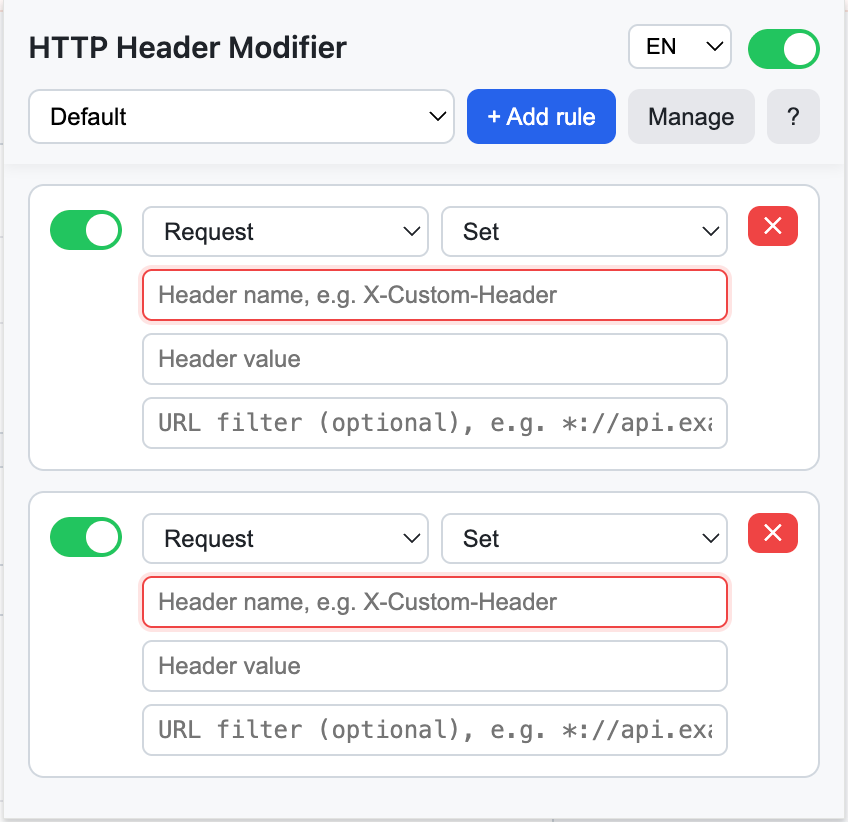
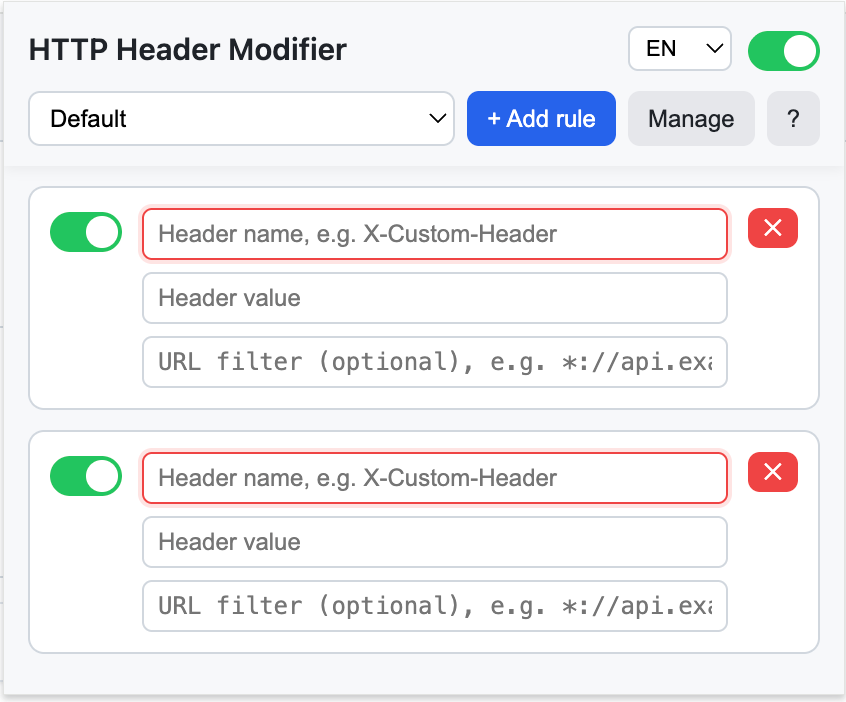
feat: update docs

diff --git a/README.md b/README.md
@@ -10,8 +10,6 @@ A browser extension for setting HTTP request headers, supporting **Chrome** and 
 
 ![Screenshot 2](public/example-2.png)
 
-![Screenshot 3](public/example-3.png)
-
 ## Features
 
 - Set HTTP **request headers** using key-value pairs (overwrite if present, add if absent)

diff --git a/docs/README_zh.md b/docs/README_zh.md
@@ -10,8 +10,6 @@
 
 ![示例 2](../public/example-2.png)
 
-![示例 3](../public/example-3.png)
-
 ## 功能
 
 - 填写 key-value 键值对，通过 `set` 修改 HTTP **请求头**（有则覆盖，无则新增）
